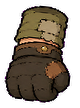
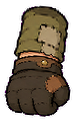
6 카르덴: 앞팔 소매 이음(달리기·찌르기), 찌르기 가까운 팔을 봉 위로, 뒷주먹 손가락 복구, 봉 집게 땅 가까이, 걷는 다리 12% 크게
- grip2: 뒷주먹 자루 지우는 칸이 넷째 손가락 끝까지 지웠음 → 1354부터
- armLF 소매만 늘이고 위 끝 흐리게(foreStretch) + upperRun 78 → 어깨~주먹 이어짐
- rig.js opt-in: staffKey.upperLen/fit(소매를 어깨→손목 거리에 맞춰 늘임), carryDrop(서 있을 때 봉 내림)
- staff 공격 시작 때 손 안 밀림(runSlide·carryDrop) 이어받음 — 한 프레임 튐 없음
- drawStaff: 봉 < 가까운 팔 < 주먹
- 검사 16장면 통과

Claude-Session: https://claude.ai/code/session_015ytCrWApV92AMmnGMogyWc

diff --git a/assets/rig/carden-rust/rig.def.js b/assets/rig/carden-rust/rig.def.js
@@ -1,1 +1,1 @@
-window.MR_RIG_DEFS=window.MR_RIG_DEFS||{};window.MR_RIG_DEFS['carden-rust']={"name":"carden-rust","version":"3583c502","units":"rig px (reference x2)","refOrigin":[234.0,500.0],"refScale":2.0,"refLift":0,"parts":{"hips":{"src":"parts/hips.png","pivot":[73.0,14.1],"scale":2.3575},"pouch":{"src":"parts/pouch.png","pivot":[22.0,4.0],"scale":2.05},"torso":{"src":"parts/torso.png","pivot":[112.8,114.7],"scale":2.05},"head":{"src":"parts/head.png","pivot":[60.9,95.5],"scale":2.0581},"tuftL":{"src":"parts/tuftL.png","pivot":[102.1,48.4],"scale":2.05},"tuftR":{"src":"parts/tuftR.png","pivot":[8.4,31.0],"scale":2.05},"beard":{"src":"parts/beard.png","pivot":[80.5,12.0],"scale":2.0102},"armU":{"src":"parts/armU.png","pivot":[22.0,3.0],"scale":2.05},"armL":{"src":"parts/armL.png","pivot":[57.0,3.0],"scale":2.05,"alt":"armLF"},"pauldron":{"src":"parts/pauldron.png","pivot":[55.4,34.9],"scale":2.05},"armF":{"src":"parts/armF.png","pivot":[19.0,2.0],"scale":2.05},"foreF":{"src":"parts/foreF.png","pivot":[17.0,2.0],"scale":2.05},"fistF":{"src":"parts/fistF.png","pivot":[136.8,49.5],"scale":1.0},"weapon":{"src":"parts/weapon.png","pivot":[45.0,299.9],"scale":2.05,"tips":[[16.0,6.0],[58.0,6.0]]},"armLF":{"src":"parts/armLF.png","pivot":[46.2,9.4],"scale":2.05,"grip":[36.7,80.8]},"handL":{"src":"parts/handL.png","pivot":[280,146.5],"scale":0.5376,"shaftDir":[1,0],"wrist":[65,297],"toElbow":[-0.8,0.6]},"handR":{"src":"parts/handR.png","pivot":[191,241.5],"scale":0.5376,"shaftDir":[1,0],"wrist":[6,203]},"armLS":{"src":"parts/armLS.png","pivot":[34,3],"scale":2.05,"noAxis":true,"grip":[33,37]},"thighN":{"src":"parts/thighN.png","pivot":[0,0],"scale":1},"thighF":{"src":"parts/thighF.png","pivot":[0,0],"scale":1},"shinN":{"src":"parts/shinN.png","pivot":[0,0],"scale":1},"shinF":{"src":"parts/shinF.png","pivot":[0,0],"scale":1},"boot":{"src":"parts/bootR.png","pivot":[42,31],"scale":1},"face_happy":{"src":"parts/face_happy.png","pivot":[19.9,76.5],"scale":2.0581},"face_angry":{"src":"parts/face_angry.png","pivot":[14.9,76.5],"scale":2.0581},"face_focus":{"src":"parts/face_focus.png","pivot":[19.9,76.5],"scale":2.0581},"face_sad":{"src":"parts/face_sad.png","pivot":[19.9,76.5],"scale":2.0581},"face_shout":{"src":"parts/face_shout.png","pivot":[19.9,76.5],"scale":2.0581},"skirt":{"src":"parts/pants.png","pivot":[208.0,0.0],"scale":1,"mesh":{"cols":8,"rows":6}},"shinR":{"src":"parts/shinR.png","pivot":[0,0],"scale":1}},"bones":[{"name":"root","parent":null,"pos":[0,0]},{"name":"hip","parent":"root","pos":[12.0,-230.0]},{"name":"skirt","parent":"hip","pos":[0.0,0.0],"part":"skirt"},{"name":"cape","parent":"hip","pos":[-4.0,-266.0]},{"name":"hips","parent":"hip","pos":[14.8,50.8],"rot":0.0698,"part":"hips"},{"name":"pouch","parent":"hip","pos":[-102.6,-25.7],"rot":0.192,"part":"pouch"},{"name":"torso","parent":"hip","pos":[0.0,0.0],"part":"torso"},{"name":"head","parent":"torso","pos":[-4.0,-266.0],"rot":-0.0335,"part":"head"},{"name":"tuftL","parent":"head","pos":[-60.8,-116.0],"rot":-0.0713,"part":"tuftL"},{"name":"tuftR","parent":"head","pos":[118.2,-132.0],"rot":0.1905,"part":"tuftR"},{"name":"beard","parent":"head","pos":[88.3,1.1],"rot":0.0198,"part":"beard"},{"name":"armU","parent":"torso","pos":[-150.0,-194.0],"rot":0.9969,"part":"armU"},{"name":"armL","parent":"armU","pos":[-0.0,47.3],"rot":-0.6478,"part":"armL"},{"name":"pauldron","parent":"torso","pos":[-150.0,-194.0],"rot":0.0698,"part":"pauldron"},{"name":"armF","parent":"torso","pos":[220.0,-170.0],"rot":0.4117,"part":"armF"},{"name":"foreF","parent":"armF","pos":[0.0,98.4],"rot":-2.4941,"part":"foreF"},{"name":"fistF","parent":"foreF","pos":[0.0,102.5],"part":"fistF"},{"name":"weapon","parent":"fistF","pos":[-12.8,80.0],"rot":2.0998,"part":"weapon"},{"name":"handL","parent":"weapon","pos":[0,0],"rot":-1.5882,"part":"handL"},{"name":"handR","parent":"weapon","pos":[0,0],"rot":-1.5882,"part":"handR"}],"legs":{"hip":[0,70],"thigh":80,"shin":78,"thighImg":{"part":"thighN","a":[40,4],"b":[36,55],"w":1.33},"shinImg":{"part":"shinN","a":[19,3],"b":[18,43],"w":1.385},"boot":{"part":"boot","sole":[[-37,28],[-30,33],[45,33],[65,22]],"ankleRange":[-0.85,0.95]},"near":{"x":-130,"shade":0,"thighImg":{"part":"thighN","a":[40,4],"b":[36,55],"w":0.001},"shinImg":{"part":"shinR","a":[26,0],"b":[26,72],"w":0.923}},"far":{"x":110,"shade":0.22,"thighImg":{"part":"thighF","a":[37,4],"b":[40,55],"w":0.001},"shinImg":{"part":"shinR","a":[26,0],"b":[26,72],"w":0.923}}},"draw":["cape","legFar","legNear","armF","skirt","torso","pouch","foreF","tuftL","tuftR","head","beard","headFront","weapon","fistF","handL","armU","armL","pauldron","handR"],"hidden":["handL","handR"],"faces":{"happy":"face_happy","angry":"face_angry","focus":"face_focus","sad":"face_sad","shout":"face_shout","effort":"face_angry"},"idleStance":{"near":-20,"far":-5},"gait":{"stance":0.18,"strideBase":20,"strideK":0.1,"hipBase":0,"bob":12,"lean":0.12,"waddle":0.05,"headBob":4,"kneeLift":0.25,"heelKick":0.05,"dropCap":20,"swingReach":0.05,"landAng":-0.08,"angK":0.45,"elbowRun":0.8},"weaponRaise":40,"releaseOpen":true,"dropLift":12,"follow":[{"bone":"pauldron","src":"armU","k":0.3}],"rearBlend":0.1,"runSlide":110,"upperRun":100,"hemGain":0.15,"seamInterior":true,"runForeBend":-0.35,"wristRange":0.55,"runTilt":0,"bounce":[{"bone":"tuftL","stiff":160,"damp":7,"y":0.15,"rot":-0.006,"max":12},{"bone":"tuftR","stiff":170,"damp":7,"y":0.15,"rot":0.006,"max":12},{"bone":"beard","stiff":260,"damp":10,"y":0.1,"rot":0.002,"max":6}],"metrics":{"bodyHeight":714,"heightWithWeapon":1016,"note":"rig units. bodyHeight = 옆머리 위 ~ 발바닥(대기), 무기 제외","shaftWidth":52,"fistWidth":76,"forearmThickness":60},"ui":{"attack":"thrust","stillReady":{"t":0.22,"cut":0.36}},"note":"6 카르덴. 8 러스트 니콜(rust-fork-girl v15) 뼈대·동작 방식(봉 계열 기준). 다른 점: 짧은 다리·넓은 발, 긴 렌치 봉(쥔 손이 몸에서 멂), 옆머리 2·수염(머리 뼈, 출렁임), 고글(깜빡임 없음), 바지 엉덩이(hips) 조각","headFront":{"clip":[[0,0],[1,0],[0,1]],"facesFree":true},"hemRun":{"lift":10,"knee":0.5,"heel":0.3,"reach":0.2},"hemLimit":{"up":0.25,"x":0.3},"actions":{"thrust":{"kind":"staff","dur":0.8,"hitAt":0.3,"cancelAt":0.54,"w":[[0,0,"io"],[0.09,1],[0.62,1,"io"],[0.79,0]],"ang":[[0,0.05,"o"],[0.06,1.4,"io"],[0.12,1.57],[0.62,1.57,"io"],[0.71,0.85,"io"],[0.79,0.05]],"gx":[[0,200,"io"],[0.18,234.0625,"s"],[0.24,183.75],[0.3,294.375,"o"],[0.42,268.75,"io"],[0.62,250,"io"],[0.79,200]],"gy":[[0,-30,"io"],[0.03,-170,"io"],[0.18,-59.53125],[0.24,-57.5,"io"],[0.3,-76.5625],[0.42,-76.875,"io"],[0.71,-170,"io"],[0.79,-30]],"gap":[[0,180],[0.18,214.6875,"io"],[0.24,159.375,"io"],[0.3,199.375,"io"],[0.42,182.5,"io"],[0.79,180]],"sh":[[0,0,"io"],[0.15,1,"s"],[0.18,1.3046874999999998,"io"],[0.24,1.2953124999999999,"io"],[0.3,1.3,"io"],[0.42,1.2999999999999998,"io"],[0.62,1,"io"],[0.79,0]],"trail":[[0,0],[0.19,0,"lin"],[0.22,1],[0.34,1,"lin"],[0.41,0]],"shake":[[0,0],[0.3,0,"lin"],[0.31,1],[0.42,0]],"face":[[0,"focus"],[0.19,"angry"],[0.5,"focus"],[0.7,null]],"breath":[[0,0,"io"],[0.16,1,"o"],[0.3,-0.4,"io"],[0.48,-0.6,"io"],[0.8,0]],"hipX":[[0,0,"io"],[0.18,-13.776250000000005,"s"],[0.24,44.817499999999995,"io"],[0.3,170.00875],[0.42,75.185,"io"],[0.7,0]],"hipY":[[0,0,"io"],[0.18,-27.1875,"s"],[0.24,-6.875,"io"],[0.3,8.1875],[0.42,26.5625,"io"],[0.7,-1,"io"],[0.75,3,"io"],[0.8,0]],"lean":[[0,0,"io"],[0.18,-0.009062500000000005,"s"],[0.24,-0.047500000000000014,"io"],[0.3,0.08499999999999999],[0.42,0.09593750000000015,"io"],[0.7,0]],"head":[[0,0,"io"],[0.18,0.16625000000000004,"s"],[0.24,-0.002499999999999956,"io"],[0.3,-0.2778125],[0.42,-0.03828124999999995,"io"],[0.7,0]],"farDx":[[0,0,"io"],[0.18,-24,"s"],[0.24,60,"io"],[0.3,215],[0.46,215,"io"],[0.64,0]],"nearDx":[[0,0,"io"],[0.15,-10,"io"],[0.18,-30,"io"],[0.24,-10,"io"],[0.3,90],[0.36,90,"io"],[0.44,10],[0.62,10,"io"],[0.76,0]],"farLift":[[0,0],[0.18,0,"io"],[0.24,19.84,"io"],[0.3,0],[0.46,0,"io"],[0.55,14.88,"io"],[0.64,0]],"nearLift":[[0,0],[0.03,0,"io"],[0.09,9.92,"io"],[0.15,0],[0.22,0,"io"],[0.27,14,"io"],[0.3,0],[0.36,0,"io"],[0.4,10,"io"],[0.44,0],[0.62,0,"io"],[0.69,8.68,"io"],[0.76,0]],"farAng":[[0,0],[0.21,0,"io"],[0.27,-0.24,"io"],[0.33,0]],"nearAng":[[0,0],[0.21,0,"io"],[0.31,0.2],[0.44,0.18,"io"],[0.6,0]],"twist":[[0,0,"io"],[0.18,-0.7,"s"],[0.3,0.7],[0.42,0.6,"io"],[0.7,0]],"kneeOut":1}},"staffKey":{"sleeve":"armLS","shoulder":[70,30],"leadOn":0.12,"pauldronFollow":0.25,"pauldronRot":0.12},"drawStaff":["cape","legFar","legNear","armF","skirt","torso","pouch","foreF","tuftL","tuftR","head","beard","headFront","armU","armL","pauldron","weapon","fistF","handL","handR"]};
+window.MR_RIG_DEFS=window.MR_RIG_DEFS||{};window.MR_RIG_DEFS['carden-rust']={"name":"carden-rust","version":"c79a3823","units":"rig px (reference x2)","refOrigin":[234.0,500.0],"refScale":2.0,"refLift":0,"parts":{"hips":{"src":"parts/hips.png","pivot":[73.0,14.1],"scale":2.3575},"pouch":{"src":"parts/pouch.png","pivot":[22.0,4.0],"scale":2.05},"torso":{"src":"parts/torso.png","pivot":[112.8,114.7],"scale":2.05},"head":{"src":"parts/head.png","pivot":[60.9,95.5],"scale":2.0581},"tuftL":{"src":"parts/tuftL.png","pivot":[102.1,48.4],"scale":2.05},"tuftR":{"src":"parts/tuftR.png","pivot":[8.4,31.0],"scale":2.05},"beard":{"src":"parts/beard.png","pivot":[80.5,12.0],"scale":2.0102},"armU":{"src":"parts/armU.png","pivot":[22.0,3.0],"scale":2.05},"armL":{"src":"parts/armL.png","pivot":[57.0,3.0],"scale":2.05,"alt":"armLF"},"pauldron":{"src":"parts/pauldron.png","pivot":[55.4,34.9],"scale":2.05},"armF":{"src":"parts/armF.png","pivot":[19.0,2.0],"scale":2.05},"foreF":{"src":"parts/foreF.png","pivot":[17.0,2.0],"scale":2.05},"fistF":{"src":"parts/fistF.png","pivot":[136.8,49.5],"scale":1.0},"weapon":{"src":"parts/weapon.png","pivot":[45.0,299.9],"scale":2.05,"tips":[[16.0,6.0],[58.0,6.0]]},"armLF":{"src":"parts/armLF.png","pivot":[46.2,10.0],"scale":2.05,"grip":[36.7,94.8]},"handL":{"src":"parts/handL.png","pivot":[280,146.5],"scale":0.5376,"shaftDir":[1,0],"wrist":[65,297],"toElbow":[-0.8,0.6]},"handR":{"src":"parts/handR.png","pivot":[191,241.5],"scale":0.5376,"shaftDir":[1,0],"wrist":[6,203]},"armLS":{"src":"parts/armLS.png","pivot":[34,3],"scale":2.05,"noAxis":true,"grip":[33,37]},"thighN":{"src":"parts/thighN.png","pivot":[0,0],"scale":1},"thighF":{"src":"parts/thighF.png","pivot":[0,0],"scale":1},"shinN":{"src":"parts/shinN.png","pivot":[0,0],"scale":1},"shinF":{"src":"parts/shinF.png","pivot":[0,0],"scale":1},"boot":{"src":"parts/bootR.png","pivot":[42,31],"scale":1.12},"face_happy":{"src":"parts/face_happy.png","pivot":[19.9,76.5],"scale":2.0581},"face_angry":{"src":"parts/face_angry.png","pivot":[14.9,76.5],"scale":2.0581},"face_focus":{"src":"parts/face_focus.png","pivot":[19.9,76.5],"scale":2.0581},"face_sad":{"src":"parts/face_sad.png","pivot":[19.9,76.5],"scale":2.0581},"face_shout":{"src":"parts/face_shout.png","pivot":[19.9,76.5],"scale":2.0581},"skirt":{"src":"parts/pants.png","pivot":[208.0,0.0],"scale":1,"mesh":{"cols":8,"rows":6}},"shinR":{"src":"parts/shinR.png","pivot":[0,0],"scale":1}},"bones":[{"name":"root","parent":null,"pos":[0,0]},{"name":"hip","parent":"root","pos":[12.0,-230.0]},{"name":"skirt","parent":"hip","pos":[0.0,0.0],"part":"skirt"},{"name":"cape","parent":"hip","pos":[-4.0,-266.0]},{"name":"hips","parent":"hip","pos":[14.8,50.8],"rot":0.0698,"part":"hips"},{"name":"pouch","parent":"hip","pos":[-102.6,-25.7],"rot":0.192,"part":"pouch"},{"name":"torso","parent":"hip","pos":[0.0,0.0],"part":"torso"},{"name":"head","parent":"torso","pos":[-4.0,-266.0],"rot":-0.0335,"part":"head"},{"name":"tuftL","parent":"head","pos":[-60.8,-116.0],"rot":-0.0713,"part":"tuftL"},{"name":"tuftR","parent":"head","pos":[118.2,-132.0],"rot":0.1905,"part":"tuftR"},{"name":"beard","parent":"head","pos":[88.3,1.1],"rot":0.0198,"part":"beard"},{"name":"armU","parent":"torso","pos":[-150.0,-194.0],"rot":0.9969,"part":"armU"},{"name":"armL","parent":"armU","pos":[-0.0,47.3],"rot":-0.6478,"part":"armL"},{"name":"pauldron","parent":"torso","pos":[-150.0,-194.0],"rot":0.0698,"part":"pauldron"},{"name":"armF","parent":"torso","pos":[220.0,-170.0],"rot":0.4117,"part":"armF"},{"name":"foreF","parent":"armF","pos":[0.0,98.4],"rot":-2.4941,"part":"foreF"},{"name":"fistF","parent":"foreF","pos":[0.0,102.5],"part":"fistF"},{"name":"weapon","parent":"fistF","pos":[-12.8,80.0],"rot":2.0998,"part":"weapon"},{"name":"handL","parent":"weapon","pos":[0,0],"rot":-1.5882,"part":"handL"},{"name":"handR","parent":"weapon","pos":[0,0],"rot":-1.5882,"part":"handR"}],"legs":{"hip":[0,70],"thigh":80,"shin":78,"thighImg":{"part":"thighN","a":[40,4],"b":[36,55],"w":1.33},"shinImg":{"part":"shinN","a":[19,3],"b":[18,43],"w":1.385},"boot":{"part":"boot","sole":[[-37,28],[-30,33],[45,33],[65,22]],"ankleRange":[-0.85,0.95]},"near":{"x":-130,"shade":0,"thighImg":{"part":"thighN","a":[40,4],"b":[36,55],"w":0.001},"shinImg":{"part":"shinR","a":[26,0],"b":[26,72],"w":1.034}},"far":{"x":110,"shade":0.22,"thighImg":{"part":"thighF","a":[37,4],"b":[40,55],"w":0.001},"shinImg":{"part":"shinR","a":[26,0],"b":[26,72],"w":1.034}}},"draw":["cape","legFar","legNear","armF","skirt","torso","pouch","foreF","tuftL","tuftR","head","beard","headFront","weapon","fistF","handL","armU","armL","pauldron","handR"],"hidden":["handL","handR"],"faces":{"happy":"face_happy","angry":"face_angry","focus":"face_focus","sad":"face_sad","shout":"face_shout","effort":"face_angry"},"idleStance":{"near":-20,"far":-5},"gait":{"stance":0.18,"strideBase":20,"strideK":0.1,"hipBase":0,"bob":12,"lean":0.12,"waddle":0.05,"headBob":4,"kneeLift":0.25,"heelKick":0.05,"dropCap":20,"swingReach":0.05,"landAng":-0.08,"angK":0.45,"elbowRun":0.8},"weaponRaise":40,"releaseOpen":true,"dropLift":12,"follow":[{"bone":"pauldron","src":"armU","k":0.3}],"rearBlend":0.1,"runSlide":110,"upperRun":78,"hemGain":0.15,"seamInterior":true,"carryDrop":9,"runForeBend":-0.35,"wristRange":0.55,"runTilt":0,"bounce":[{"bone":"tuftL","stiff":160,"damp":7,"y":0.15,"rot":-0.006,"max":12},{"bone":"tuftR","stiff":170,"damp":7,"y":0.15,"rot":0.006,"max":12},{"bone":"beard","stiff":260,"damp":10,"y":0.1,"rot":0.002,"max":6}],"metrics":{"bodyHeight":714,"heightWithWeapon":1016,"note":"rig units. bodyHeight = 옆머리 위 ~ 발바닥(대기), 무기 제외","shaftWidth":52,"fistWidth":76,"forearmThickness":60},"ui":{"attack":"thrust","stillReady":{"t":0.22,"cut":0.36}},"note":"6 카르덴. 8 러스트 니콜(rust-fork-girl v15) 뼈대·동작 방식(봉 계열 기준). 다른 점: 짧은 다리·넓은 발, 긴 렌치 봉(쥔 손이 몸에서 멂), 옆머리 2·수염(머리 뼈, 출렁임), 고글(깜빡임 없음), 바지 엉덩이(hips) 조각","headFront":{"clip":[[0,0],[1,0],[0,1]],"facesFree":true},"hemRun":{"lift":10,"knee":0.5,"heel":0.3,"reach":0.2},"hemLimit":{"up":0.25,"x":0.3},"actions":{"thrust":{"kind":"staff","dur":0.8,"hitAt":0.3,"cancelAt":0.54,"w":[[0,0,"io"],[0.09,1],[0.62,1,"io"],[0.79,0]],"ang":[[0,0.05,"o"],[0.06,1.4,"io"],[0.12,1.57],[0.62,1.57,"io"],[0.71,0.85,"io"],[0.79,0.05]],"gx":[[0,200,"io"],[0.18,234.0625,"s"],[0.24,183.75],[0.3,294.375,"o"],[0.42,268.75,"io"],[0.62,250,"io"],[0.79,200]],"gy":[[0,-30,"io"],[0.03,-170,"io"],[0.18,-59.53125],[0.24,-57.5,"io"],[0.3,-76.5625],[0.42,-76.875,"io"],[0.71,-170,"io"],[0.79,-30]],"gap":[[0,180],[0.18,214.6875,"io"],[0.24,159.375,"io"],[0.3,199.375,"io"],[0.42,182.5,"io"],[0.79,180]],"sh":[[0,0,"io"],[0.15,1,"s"],[0.18,1.3046874999999998,"io"],[0.24,1.2953124999999999,"io"],[0.3,1.3,"io"],[0.42,1.2999999999999998,"io"],[0.62,1,"io"],[0.79,0]],"trail":[[0,0],[0.19,0,"lin"],[0.22,1],[0.34,1,"lin"],[0.41,0]],"shake":[[0,0],[0.3,0,"lin"],[0.31,1],[0.42,0]],"face":[[0,"focus"],[0.19,"angry"],[0.5,"focus"],[0.7,null]],"breath":[[0,0,"io"],[0.16,1,"o"],[0.3,-0.4,"io"],[0.48,-0.6,"io"],[0.8,0]],"hipX":[[0,0,"io"],[0.18,-13.776250000000005,"s"],[0.24,44.817499999999995,"io"],[0.3,170.00875],[0.42,75.185,"io"],[0.7,0]],"hipY":[[0,0,"io"],[0.18,-27.1875,"s"],[0.24,-6.875,"io"],[0.3,8.1875],[0.42,26.5625,"io"],[0.7,-1,"io"],[0.75,3,"io"],[0.8,0]],"lean":[[0,0,"io"],[0.18,-0.009062500000000005,"s"],[0.24,-0.047500000000000014,"io"],[0.3,0.08499999999999999],[0.42,0.09593750000000015,"io"],[0.7,0]],"head":[[0,0,"io"],[0.18,0.16625000000000004,"s"],[0.24,-0.002499999999999956,"io"],[0.3,-0.2778125],[0.42,-0.03828124999999995,"io"],[0.7,0]],"farDx":[[0,0,"io"],[0.18,-24,"s"],[0.24,60,"io"],[0.3,215],[0.46,215,"io"],[0.64,0]],"nearDx":[[0,0,"io"],[0.15,-10,"io"],[0.18,-30,"io"],[0.24,-10,"io"],[0.3,90],[0.36,90,"io"],[0.44,10],[0.62,10,"io"],[0.76,0]],"farLift":[[0,0],[0.18,0,"io"],[0.24,19.84,"io"],[0.3,0],[0.46,0,"io"],[0.55,14.88,"io"],[0.64,0]],"nearLift":[[0,0],[0.03,0,"io"],[0.09,9.92,"io"],[0.15,0],[0.22,0,"io"],[0.27,14,"io"],[0.3,0],[0.36,0,"io"],[0.4,10,"io"],[0.44,0],[0.62,0,"io"],[0.69,8.68,"io"],[0.76,0]],"farAng":[[0,0],[0.21,0,"io"],[0.27,-0.24,"io"],[0.33,0]],"nearAng":[[0,0],[0.21,0,"io"],[0.31,0.2],[0.44,0.18,"io"],[0.6,0]],"twist":[[0,0,"io"],[0.18,-0.7,"s"],[0.3,0.7],[0.42,0.6,"io"],[0.7,0]],"kneeOut":1}},"staffKey":{"sleeve":"armLS","shoulder":[70,30],"leadOn":0.12,"pauldronFollow":0.25,"pauldronRot":0.12,"upperLen":78,"fit":0.93,"fitMin":0.85,"fitMax":1.7},"drawStaff":["cape","legFar","legNear","armF","skirt","torso","pouch","foreF","tuftL","tuftR","head","beard","headFront","weapon","armU","armL","pauldron","fistF","handL","handR"]};

diff --git a/assets/rig/rig.js b/assets/rig/rig.js
@@ -591,7 +591,7 @@
       b.armF.ar += wrapA(Math.atan2(eF[1] - SF[1], eF[0] - SF[0]) - Math.atan2(b.foreF.pos[1], b.foreF.pos[0]) - wAng(b.armF.m)); rig.compute();
       const EF = apply(b.foreF.m, 0, 0); b.foreF.ar += wrapA(Math.atan2(Wt[1] - EF[1], Wt[0] - EF[0]) - Math.atan2(b.fistF.pos[1], b.fistF.pos[0]) - wAng(b.foreF.m)); rig.compute();
       // 봉: 앞 주먹 쥔 점 G, 각도 a (봉 뼈는 fistF 자식 → fistF 기준으로 환산). 앞 주먹으로 바꾸기 전(세운 봉 주먹이 보일 때)은 그 주먹이 쥔 점에서 돌리기만
-      if (!on) { const g_ = apply(b.fistF.m, b.weapon.pos[0], b.weapon.pos[1]); G[0] = g_[0]; G[1] = g_[1] }
+      if (!on) { const g_ = apply(b.fistF.m, b.weapon.pos[0] + b.weapon.ax, b.weapon.pos[1] + b.weapon.ay); G[0] = g_[0]; G[1] = g_[1] }   // 손 안에서 밀린 만큼(runSlide·carryDrop) 그대로 이어받음 — 공격 시작 때 봉이 한 프레임에 튀지 않게
       { const F = b.fistF.m, det = F[0] * F[3] - F[1] * F[2], ix = G[0] - F[4], iy = G[1] - F[5];
         b.weapon.ax = (F[3] * ix - F[2] * iy) / det - b.weapon.pos[0]; b.weapon.ay = (-F[1] * ix + F[0] * iy) / det - b.weapon.pos[1]; b.weapon.ar = wrapA(a - wAng(F) - b.weapon.rot) }
       b.handL.pos = [0, 0];
@@ -607,7 +607,12 @@
       const onN = w > (SK.nearOn ?? .9);   // 가까운 손은 봉이 자리 잡은 뒤에만 쥠(옮겨 가는 동안 팔이 안 닿음)
       if (onN) {
         rig.swap.armL = SK.sleeve || null;
-        const eN = pick(SN, WN, solve2(SN, WN, N1, N2));
+        // staffKey.upperLen / fit (opt-in, 6 카르덴 10-18): 윗팔을 어깨갑 밖으로 빼고(upperLen), 소매를 어깨→손목 거리에 맞춰 늘임(fit = 펴짐 정도)
+        //   → 팔꿈치가 윗팔 끝에 딱 붙고 손목이 뒷주먹 소매 테에 딱 닿음 (짧은 소매로는 팔이 봉 뒤에 숨거나 모자랐음)
+        let n1 = N1, n2 = N2;
+        if (SK.upperLen) { const p_ = b.armL.pos, l_ = Math.hypot(p_[0], p_[1]) || 1; b.armL.ax = p_[0] * (SK.upperLen / l_ - 1); b.armL.ay = p_[1] * (SK.upperLen / l_ - 1); n1 = SK.upperLen }
+        if (SK.fit) { const D_ = Math.hypot(WN[0] - SN[0], WN[1] - SN[1]), st_ = clamp((D_ / SK.fit - n1) / N2, SK.fitMin ?? .85, SK.fitMax ?? 1.6); b.armL.asy = st_; n2 = N2 * st_ }
+        const eN = pick(SN, WN, solve2(SN, WN, n1, n2));
         b.armU.ar += wrapA(Math.atan2(eN[1] - SN[1], eN[0] - SN[0]) - Math.atan2(b.armL.pos[1], b.armL.pos[0]) - wAng(b.armU.m)); rig.compute();
         const EN = apply(b.armL.m, 0, 0); b.armL.ar += wrapA(Math.atan2(WN[1] - EN[1], WN[0] - EN[0]) - Math.atan2(sg[1] - sl.pivot[1], sg[0] - sl.pivot[0]) - wAng(b.armL.m)); rig.compute();
         { const tip = rig.partPoint('armL', sg[0], sg[1]); this.rearErr = Math.hypot(tip[0] - WN[0], tip[1] - WN[1]) }   // 팔이 안 닿은 거리(검사용)
@@ -946,7 +951,7 @@
       const FB = A * (rig.def.runForeBend || 0); b.foreF.ar += FB;   // 달릴 때 창 팔 팔꿈치를 더 굽혀 창을 듦 (긴 창 캐릭터, opt-in — 없으면 0)
       const WR = rig.def.wristRange || .28; b.fistF.ar = clamp(want_ - torsoTilt - b.armF.ar - FB, -WR, WR);   // wrist
       b.weapon.ar = 0;
-      if (rig.def.runSlide) { const rs = A * rig.def.runSlide; b.weapon.ax = Math.sin(b.weapon.rot) * rs; b.weapon.ay = -Math.cos(b.weapon.rot) * rs }   // 달릴 때만 봉을 손 안에서 위로 밀어 올림 — 서 있을 땐 원화 그대로 (짧은 다리 + 긴 봉, 6 카르덴 opt-in)
+      if (rig.def.runSlide || rig.def.carryDrop) { const rs = A * (rig.def.runSlide || 0) - (1 - A) * (rig.def.carryDrop || 0); b.weapon.ax = Math.sin(b.weapon.rot) * rs; b.weapon.ay = -Math.cos(b.weapon.rot) * rs }   // 달릴 때만 봉을 손 안에서 위로 밀어 올림 — 서 있을 땐 원화 그대로 (짧은 다리 + 긴 봉, 6 카르덴 opt-in) · carryDrop: 서 있을 때 봉을 그만큼 내림(집게가 땅 가까이, 6 카르덴 10-18)
 
       // ---------- feet + legs ----------
       this._feet(dt, sp, lvx, S, A);

diff --git a/assets/rig/carden-rust/source/grip2.py b/assets/rig/carden-rust/source/grip2.py
@@ -12,7 +12,7 @@ from cut_sheet import key
 HERE = os.path.dirname(os.path.abspath(__file__)); OUT = os.path.join(HERE, 'parts_work')
 SHAFT_Y = (395, 488); SHAFT_C = 441.5; SCALE = 50.0 / (SHAFT_Y[1] - SHAFT_Y[0])
 P = {'handL': dict(x=(0, 700), fist=(240, 525), cut=[(0, 166, 386, 496), (527, 700, 386, 496)], grip=(380, SHAFT_C), wrist=(165, 592), toElbow=(-0.80, 0.60)),
-     'handR': dict(x=(700, 1536), fist=(1020, 1292), cut=[(1294, 1536, 386, 496)], grip=(1160, SHAFT_C), elbow=(760, 545))}
+     'handR': dict(x=(700, 1536), fist=(1020, 1292), cut=[(1354, 1536, 386, 496)], grip=(1160, SHAFT_C), elbow=(760, 545))}   # 뒷주먹 cut 1294 였을 때 넷째 손가락 끝이 지워져 자루가 손가락 앞으로 보였음 → 1354 (10-18 00:21)
 rgba, alpha = key(np.asarray(Image.open(os.path.join(HERE, 'sheets', 'grip2_both.png')).convert('RGB')))
 R = {}
 for nm, p in P.items():
